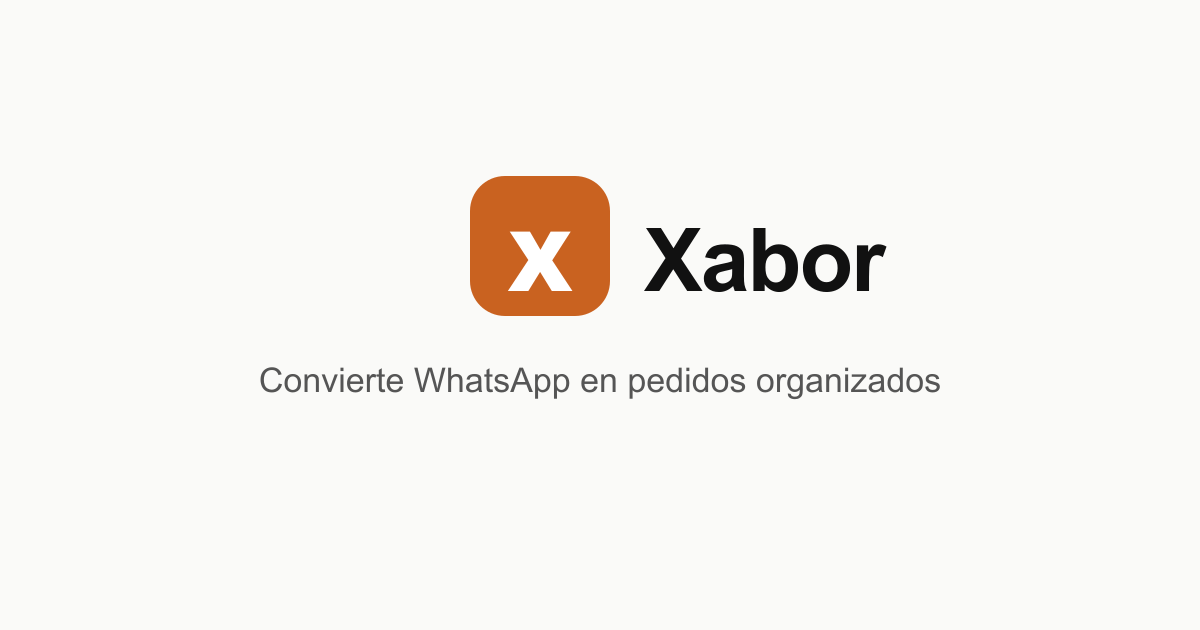
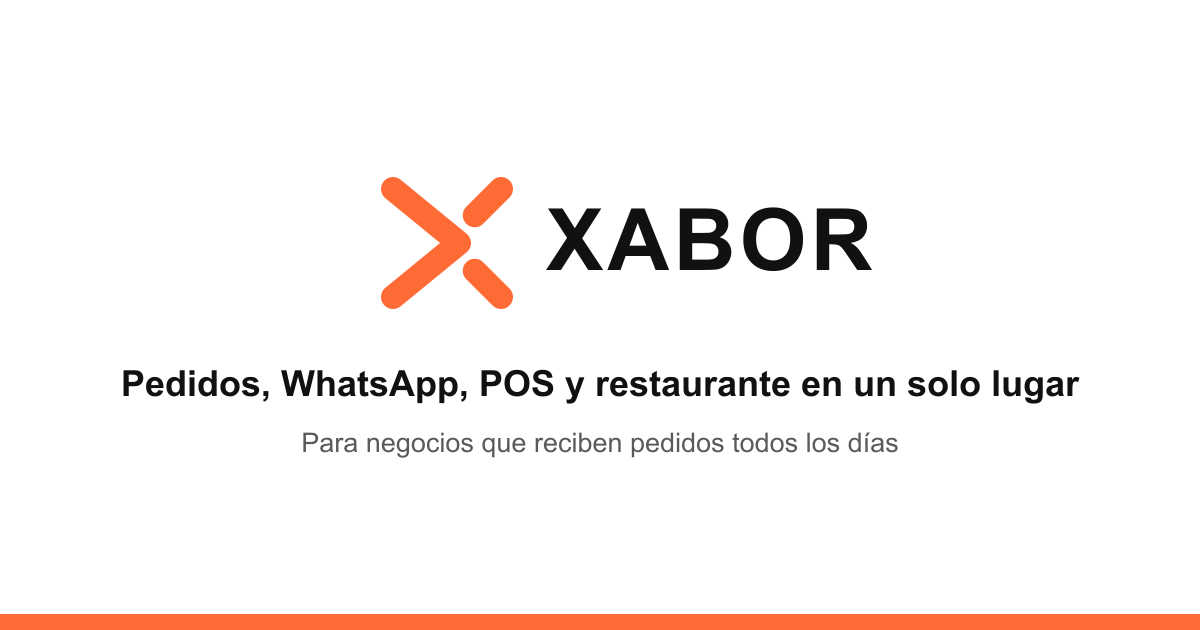
feat(marca): el isotipo real de Xabor sustituye a la reconstruccion
El logotipo que entrego el negocio es una X propia -- dos trazos que forman
un chevron y dos brazos recortados, con puntas redondeadas -- en un naranja
vivo. Lo que estaba desplegado era mi reconstruccion del favicon anterior de
la landing: un cuadrado redondeado con una X tipografica. No es la misma
marca.

Ahora public/brand/xabor-icono.svg dibuja la X real y de ahi se derivan otra
vez los PNG, el .ico y la vista previa social. El color de marca pasa a
#FF6B35, que es el del logotipo y -- de paso -- el que el panel ya usaba: el
#C96220 era la pieza que sobraba, no el panel.

El wordmark tambien se corrige: el logotipo dice XABOR en mayusculas.

Se sube el ?v= a 3 para que los navegadores suelten el icono anterior.

diff --git a/panel/finanzas.html b/panel/finanzas.html
@@ -125,17 +125,17 @@
   <!-- Marca Xabor: assets canonicos en /public/brand (fuente unica, ver
        docs/branding.md). El ?v= existe porque el favicon se cachea con
        fuerza: al cambiar la version el navegador vuelve a pedirlo. -->
-  <link rel="icon" type="image/svg+xml" href="/public/brand/xabor-icono.svg?v=2">
-  <link rel="icon" type="image/png" sizes="32x32" href="/public/brand/xabor-icono-32.png?v=2">
-  <link rel="apple-touch-icon" sizes="180x180" href="/public/brand/xabor-icono-180.png?v=2">
-  <link rel="manifest" href="/public/brand/site.webmanifest?v=2">
-  <meta name="theme-color" content="#C96220">
+  <link rel="icon" type="image/svg+xml" href="/public/brand/xabor-icono.svg?v=3">
+  <link rel="icon" type="image/png" sizes="32x32" href="/public/brand/xabor-icono-32.png?v=3">
+  <link rel="apple-touch-icon" sizes="180x180" href="/public/brand/xabor-icono-180.png?v=3">
+  <link rel="manifest" href="/public/brand/site.webmanifest?v=3">
+  <meta name="theme-color" content="#FF6B35">
 </head>
 <body>
 
 <!-- Sidebar -->
 <nav class="sidebar">
-  <div class="sidebar-logo"><img src="/public/brand/xabor-icono.svg?v=2" alt="" width="22" height="22" style="vertical-align:-5px;border-radius:6px;"> Xabor<span>Finanzas</span></div>
+  <div class="sidebar-logo"><img src="/public/brand/xabor-icono.svg?v=3" alt="" width="22" height="22" style="vertical-align:-5px;"> XABOR<span>Finanzas</span></div>
   <div class="sidebar-nav">
     <div class="nav-item active" onclick="mostrarTab('facturas')" id="nav-facturas">📄 Facturas</div>
     <div class="nav-item" onclick="mostrarTab('config')" id="nav-config">⚙ Configuración</div>

diff --git a/panel/index.html b/panel/index.html
@@ -565,17 +565,17 @@ button { border: none; border-radius: var(--radius-md); padding: 8px 12px; font-
   <!-- Marca Xabor: assets canonicos en /public/brand (fuente unica, ver
        docs/branding.md). El ?v= existe porque el favicon se cachea con
        fuerza: al cambiar la version el navegador vuelve a pedirlo. -->
-  <link rel="icon" type="image/svg+xml" href="/public/brand/xabor-icono.svg?v=2">
-  <link rel="icon" type="image/png" sizes="32x32" href="/public/brand/xabor-icono-32.png?v=2">
-  <link rel="apple-touch-icon" sizes="180x180" href="/public/brand/xabor-icono-180.png?v=2">
-  <link rel="manifest" href="/public/brand/site.webmanifest?v=2">
-  <meta name="theme-color" content="#C96220">
+  <link rel="icon" type="image/svg+xml" href="/public/brand/xabor-icono.svg?v=3">
+  <link rel="icon" type="image/png" sizes="32x32" href="/public/brand/xabor-icono-32.png?v=3">
+  <link rel="apple-touch-icon" sizes="180x180" href="/public/brand/xabor-icono-180.png?v=3">
+  <link rel="manifest" href="/public/brand/site.webmanifest?v=3">
+  <meta name="theme-color" content="#FF6B35">
 </head>
 <body>
 
 <!-- Header -->
 <header>
-  <div class="header-brand"><img src="/public/brand/xabor-icono.svg?v=2" alt="" width="22" height="22" style="vertical-align:-5px;border-radius:6px;"> Xabor<span>·</span></div>
+  <div class="header-brand"><img src="/public/brand/xabor-icono.svg?v=3" alt="" width="22" height="22" style="vertical-align:-5px;"> XABOR<span>·</span></div>
   <div id="estado-ws"><div id="dot"></div><span id="label-ws">Conectando...</span></div>
   <div class="header-sep"></div>
   <div id="contador">0 activos</div>

diff --git a/panel/repartidor.html b/panel/repartidor.html
@@ -66,16 +66,16 @@
   <!-- Marca Xabor: assets canonicos en /public/brand (fuente unica, ver
        docs/branding.md). El ?v= existe porque el favicon se cachea con
        fuerza: al cambiar la version el navegador vuelve a pedirlo. -->
-  <link rel="icon" type="image/svg+xml" href="/public/brand/xabor-icono.svg?v=2">
-  <link rel="icon" type="image/png" sizes="32x32" href="/public/brand/xabor-icono-32.png?v=2">
-  <link rel="apple-touch-icon" sizes="180x180" href="/public/brand/xabor-icono-180.png?v=2">
-  <link rel="manifest" href="/public/brand/site.webmanifest?v=2">
-  <meta name="theme-color" content="#C96220">
+  <link rel="icon" type="image/svg+xml" href="/public/brand/xabor-icono.svg?v=3">
+  <link rel="icon" type="image/png" sizes="32x32" href="/public/brand/xabor-icono-32.png?v=3">
+  <link rel="apple-touch-icon" sizes="180x180" href="/public/brand/xabor-icono-180.png?v=3">
+  <link rel="manifest" href="/public/brand/site.webmanifest?v=3">
+  <meta name="theme-color" content="#FF6B35">
 </head>
 <body>
 
 <div class="header">
-  <h1><img src="/public/brand/xabor-icono.svg?v=2" alt="" width="22" height="22" style="vertical-align:-5px;border-radius:6px;"> Repartidor</h1>
+  <h1><img src="/public/brand/xabor-icono.svg?v=3" alt="" width="22" height="22" style="vertical-align:-5px;"> Repartidor</h1>
   <span class="chip" id="chip-estado" style="margin-left:auto;">…</span>
   <button class="btn btn-gris btn-mini" onclick="refrescarTodo()" title="Actualizar">↻</button>
   <button class="btn btn-gris btn-mini" id="btn-salir" style="display:none;" onclick="cerrarSesion()">Salir</button>

diff --git a/panel/superadmin.html b/panel/superadmin.html
@@ -103,11 +103,11 @@
   <!-- Marca Xabor: assets canonicos en /public/brand (fuente unica, ver
        docs/branding.md). El ?v= existe porque el favicon se cachea con
        fuerza: al cambiar la version el navegador vuelve a pedirlo. -->
-  <link rel="icon" type="image/svg+xml" href="/public/brand/xabor-icono.svg?v=2">
-  <link rel="icon" type="image/png" sizes="32x32" href="/public/brand/xabor-icono-32.png?v=2">
-  <link rel="apple-touch-icon" sizes="180x180" href="/public/brand/xabor-icono-180.png?v=2">
-  <link rel="manifest" href="/public/brand/site.webmanifest?v=2">
-  <meta name="theme-color" content="#C96220">
+  <link rel="icon" type="image/svg+xml" href="/public/brand/xabor-icono.svg?v=3">
+  <link rel="icon" type="image/png" sizes="32x32" href="/public/brand/xabor-icono-32.png?v=3">
+  <link rel="apple-touch-icon" sizes="180x180" href="/public/brand/xabor-icono-180.png?v=3">
+  <link rel="manifest" href="/public/brand/site.webmanifest?v=3">
+  <meta name="theme-color" content="#FF6B35">
 </head>
 <body>
 
@@ -122,7 +122,7 @@
 
 <div id="app">
   <header>
-    <div class="brand"><img src="/public/brand/xabor-icono.svg?v=2" alt="" width="22" height="22" style="vertical-align:-5px;border-radius:6px;"> Xabor <span>· Superadmin</span></div>
+    <div class="brand"><img src="/public/brand/xabor-icono.svg?v=3" alt="" width="22" height="22" style="vertical-align:-5px;"> XABOR <span>· Superadmin</span></div>
     <button onclick="cerrarSesion()">Cerrar sesión</button>
   </header>
   <nav>

diff --git a/panel/mesas.html b/panel/mesas.html
@@ -162,16 +162,16 @@
   <!-- Marca Xabor: assets canonicos en /public/brand (fuente unica, ver
        docs/branding.md). El ?v= existe porque el favicon se cachea con
        fuerza: al cambiar la version el navegador vuelve a pedirlo. -->
-  <link rel="icon" type="image/svg+xml" href="/public/brand/xabor-icono.svg?v=2">
-  <link rel="icon" type="image/png" sizes="32x32" href="/public/brand/xabor-icono-32.png?v=2">
-  <link rel="apple-touch-icon" sizes="180x180" href="/public/brand/xabor-icono-180.png?v=2">
-  <link rel="manifest" href="/public/brand/site.webmanifest?v=2">
-  <meta name="theme-color" content="#C96220">
+  <link rel="icon" type="image/svg+xml" href="/public/brand/xabor-icono.svg?v=3">
+  <link rel="icon" type="image/png" sizes="32x32" href="/public/brand/xabor-icono-32.png?v=3">
+  <link rel="apple-touch-icon" sizes="180x180" href="/public/brand/xabor-icono-180.png?v=3">
+  <link rel="manifest" href="/public/brand/site.webmanifest?v=3">
+  <meta name="theme-color" content="#FF6B35">
 </head>
 <body>
 
 <header class="xb">
-  <div class="marca"><img src="/public/brand/xabor-icono.svg?v=2" alt="" width="22" height="22" style="vertical-align:-5px;border-radius:6px;"> Xabor <span>Restaurante</span></div>
+  <div class="marca"><img src="/public/brand/xabor-icono.svg?v=3" alt="" width="22" height="22" style="vertical-align:-5px;"> XABOR <span>Restaurante</span></div>
   <div class="negocio" id="negocio"></div>
   <div class="der">
     <div class="quien" id="quien"></div>

diff --git a/panel/login.html b/panel/login.html
@@ -150,16 +150,16 @@ button:disabled { background: var(--color-border-strong); color: var(--color-tex
   <!-- Marca Xabor: assets canonicos en /public/brand (fuente unica, ver
        docs/branding.md). El ?v= existe porque el favicon se cachea con
        fuerza: al cambiar la version el navegador vuelve a pedirlo. -->
-  <link rel="icon" type="image/svg+xml" href="/public/brand/xabor-icono.svg?v=2">
-  <link rel="icon" type="image/png" sizes="32x32" href="/public/brand/xabor-icono-32.png?v=2">
-  <link rel="apple-touch-icon" sizes="180x180" href="/public/brand/xabor-icono-180.png?v=2">
-  <link rel="manifest" href="/public/brand/site.webmanifest?v=2">
-  <meta name="theme-color" content="#C96220">
+  <link rel="icon" type="image/svg+xml" href="/public/brand/xabor-icono.svg?v=3">
+  <link rel="icon" type="image/png" sizes="32x32" href="/public/brand/xabor-icono-32.png?v=3">
+  <link rel="apple-touch-icon" sizes="180x180" href="/public/brand/xabor-icono-180.png?v=3">
+  <link rel="manifest" href="/public/brand/site.webmanifest?v=3">
+  <meta name="theme-color" content="#FF6B35">
 </head>
 <body>
 <div class="login-box">
   <div class="logo">
-    <h1><img src="/public/brand/xabor-icono.svg?v=2" alt="" width="32" height="32" style="vertical-align:-6px;border-radius:8px;"> Xabor</h1>
+    <h1><img src="/public/brand/xabor-icono.svg?v=3" alt="" width="32" height="32" style="vertical-align:-6px;"> XABOR</h1>
     <p>Panel de Comandas</p>
   </div>
   <label>Contraseña</label>

diff --git a/panel/login-negocio.html b/panel/login-negocio.html
@@ -124,16 +124,16 @@ button:disabled { background: var(--color-border-strong); color: var(--color-tex
   <!-- Marca Xabor: assets canonicos en /public/brand (fuente unica, ver
        docs/branding.md). El ?v= existe porque el favicon se cachea con
        fuerza: al cambiar la version el navegador vuelve a pedirlo. -->
-  <link rel="icon" type="image/svg+xml" href="/public/brand/xabor-icono.svg?v=2">
-  <link rel="icon" type="image/png" sizes="32x32" href="/public/brand/xabor-icono-32.png?v=2">
-  <link rel="apple-touch-icon" sizes="180x180" href="/public/brand/xabor-icono-180.png?v=2">
-  <link rel="manifest" href="/public/brand/site.webmanifest?v=2">
-  <meta name="theme-color" content="#C96220">
+  <link rel="icon" type="image/svg+xml" href="/public/brand/xabor-icono.svg?v=3">
+  <link rel="icon" type="image/png" sizes="32x32" href="/public/brand/xabor-icono-32.png?v=3">
+  <link rel="apple-touch-icon" sizes="180x180" href="/public/brand/xabor-icono-180.png?v=3">
+  <link rel="manifest" href="/public/brand/site.webmanifest?v=3">
+  <meta name="theme-color" content="#FF6B35">
 </head>
 <body>
 <div class="login-box">
   <div class="logo">
-    <h1><img src="/public/brand/xabor-icono.svg?v=2" alt="" width="32" height="32" style="vertical-align:-6px;border-radius:8px;"> Xabor</h1>
+    <h1><img src="/public/brand/xabor-icono.svg?v=3" alt="" width="32" height="32" style="vertical-align:-6px;"> XABOR</h1>
     <p>Iniciar sesión</p>
   </div>
 

diff --git a/panel/crear-password.html b/panel/crear-password.html
@@ -93,16 +93,16 @@ button:disabled { background: var(--color-border-strong); color: var(--color-tex
   <!-- Marca Xabor: assets canonicos en /public/brand (fuente unica, ver
        docs/branding.md). El ?v= existe porque el favicon se cachea con
        fuerza: al cambiar la version el navegador vuelve a pedirlo. -->
-  <link rel="icon" type="image/svg+xml" href="/public/brand/xabor-icono.svg?v=2">
-  <link rel="icon" type="image/png" sizes="32x32" href="/public/brand/xabor-icono-32.png?v=2">
-  <link rel="apple-touch-icon" sizes="180x180" href="/public/brand/xabor-icono-180.png?v=2">
-  <link rel="manifest" href="/public/brand/site.webmanifest?v=2">
-  <meta name="theme-color" content="#C96220">
+  <link rel="icon" type="image/svg+xml" href="/public/brand/xabor-icono.svg?v=3">
+  <link rel="icon" type="image/png" sizes="32x32" href="/public/brand/xabor-icono-32.png?v=3">
+  <link rel="apple-touch-icon" sizes="180x180" href="/public/brand/xabor-icono-180.png?v=3">
+  <link rel="manifest" href="/public/brand/site.webmanifest?v=3">
+  <meta name="theme-color" content="#FF6B35">
 </head>
 <body>
 <div class="box">
   <div class="logo">
-    <h1><img src="/public/brand/xabor-icono.svg?v=2" alt="" width="32" height="32" style="vertical-align:-6px;border-radius:8px;"> Xabor</h1>
+    <h1><img src="/public/brand/xabor-icono.svg?v=3" alt="" width="32" height="32" style="vertical-align:-6px;"> XABOR</h1>
   </div>
 
   <div id="cargando">

diff --git a/panel/restablecer-password.html b/panel/restablecer-password.html
@@ -89,16 +89,16 @@ button:disabled { background: var(--color-border-strong); color: var(--color-tex
   <!-- Marca Xabor: assets canonicos en /public/brand (fuente unica, ver
        docs/branding.md). El ?v= existe porque el favicon se cachea con
        fuerza: al cambiar la version el navegador vuelve a pedirlo. -->
-  <link rel="icon" type="image/svg+xml" href="/public/brand/xabor-icono.svg?v=2">
-  <link rel="icon" type="image/png" sizes="32x32" href="/public/brand/xabor-icono-32.png?v=2">
-  <link rel="apple-touch-icon" sizes="180x180" href="/public/brand/xabor-icono-180.png?v=2">
-  <link rel="manifest" href="/public/brand/site.webmanifest?v=2">
-  <meta name="theme-color" content="#C96220">
+  <link rel="icon" type="image/svg+xml" href="/public/brand/xabor-icono.svg?v=3">
+  <link rel="icon" type="image/png" sizes="32x32" href="/public/brand/xabor-icono-32.png?v=3">
+  <link rel="apple-touch-icon" sizes="180x180" href="/public/brand/xabor-icono-180.png?v=3">
+  <link rel="manifest" href="/public/brand/site.webmanifest?v=3">
+  <meta name="theme-color" content="#FF6B35">
 </head>
 <body>
 <div class="box">
   <div class="logo">
-    <h1><img src="/public/brand/xabor-icono.svg?v=2" alt="" width="32" height="32" style="vertical-align:-6px;border-radius:8px;"> Xabor</h1>
+    <h1><img src="/public/brand/xabor-icono.svg?v=3" alt="" width="32" height="32" style="vertical-align:-6px;"> XABOR</h1>
   </div>
 
   <div id="cargando">

diff --git a/panel/mesero.html b/panel/mesero.html
@@ -23,15 +23,15 @@
   <!-- Marca Xabor: assets canonicos en /public/brand (fuente unica, ver
        docs/branding.md). El ?v= existe porque el favicon se cachea con
        fuerza: al cambiar la version el navegador vuelve a pedirlo. -->
-  <link rel="icon" type="image/svg+xml" href="/public/brand/xabor-icono.svg?v=2">
-  <link rel="icon" type="image/png" sizes="32x32" href="/public/brand/xabor-icono-32.png?v=2">
-  <link rel="apple-touch-icon" sizes="180x180" href="/public/brand/xabor-icono-180.png?v=2">
-  <link rel="manifest" href="/public/brand/site.webmanifest?v=2">
-  <meta name="theme-color" content="#C96220">
+  <link rel="icon" type="image/svg+xml" href="/public/brand/xabor-icono.svg?v=3">
+  <link rel="icon" type="image/png" sizes="32x32" href="/public/brand/xabor-icono-32.png?v=3">
+  <link rel="apple-touch-icon" sizes="180x180" href="/public/brand/xabor-icono-180.png?v=3">
+  <link rel="manifest" href="/public/brand/site.webmanifest?v=3">
+  <meta name="theme-color" content="#FF6B35">
 </head>
 <body>
 <div class="caja">
-  <div class="marca"><img src="/public/brand/xabor-icono.svg?v=2" alt="" width="26" height="26" style="vertical-align:-6px;border-radius:7px;"> Xabor</div>
+  <div class="marca"><img src="/public/brand/xabor-icono.svg?v=3" alt="" width="26" height="26" style="vertical-align:-6px;"> XABOR</div>
   <div class="negocio" id="negocio">…</div>
   <h1>Acceso de meseros</h1>
 

diff --git a/docs/branding.md b/docs/branding.md
@@ -16,9 +16,9 @@ la pestaña se queda con el icono que tuviera guardado, y ese icono podía ser
 de cualquier despliegue anterior.
 
 Encima, la marca gráfica estaba copiada a mano en cada pantalla: cuatro
-pantallas de acceso usaban un **emoji de taco (🌮)** como logotipo y cinco
-cabeceras escribían **"XABOR"** en mayúsculas, mientras la identidad aprobada
-(la de la landing) es el **isotipo naranja con la X** y la palabra **"Xabor"**.
+pantallas de acceso usaban un **emoji de taco (🌮)** como logotipo, y ninguna
+usaba el isotipo real. La identidad correcta es la **X naranja** del logotipo
+del negocio junto a la palabra **XABOR**.
 
 ## Fuente única
 
@@ -26,7 +26,7 @@ Todo vive en **`public/brand/`** y se sirve bajo `/public/brand/`:
 
 | Archivo | Qué es |
 |---|---|
-| `xabor-icono.svg` | **isotipo**: cuadrado redondeado `#C96220` con la X blanca. La fuente de todo lo demás |
+| `xabor-icono.svg` | **isotipo**: la X de Xabor en `#FF6B35`, redibujada del logotipo original del negocio. La fuente de todo lo demás |
 | `xabor-logo.svg` | **logotipo**: isotipo + palabra "Xabor" |
 | `xabor-icono-32/180/192/512.png` | derivados para favicon PNG, apple-touch-icon y manifest |
 | `favicon.ico` | contenedor ICO con el PNG de 32 px, para lo que pide `.ico` a la fuerza |
@@ -41,18 +41,20 @@ vuelve a correr el script — no se retoca ningún PNG a mano.
 Se eliminó `public/landing/favicon.svg`: era una **segunda copia** del mismo
 isotipo y es justo lo que hace que las marcas se desincronicen.
 
-Color de marca: **`#C96220`** (el `--accent` de la landing).
+Color de marca: **`#FF6B35`** — el del logotipo que entregó el negocio, que
+resultó ser el mismo naranja que el panel ya usaba. El `#C96220` que traía la
+landing era una reconstrucción anterior y quedó retirado.
 
 ## Qué declara cada pantalla
 
 Las doce superficies llevan el mismo bloque en el `<head>`:
 
 ```html
-<link rel="icon" type="image/svg+xml" href="/public/brand/xabor-icono.svg?v=2">
-<link rel="icon" type="image/png" sizes="32x32" href="/public/brand/xabor-icono-32.png?v=2">
-<link rel="apple-touch-icon" sizes="180x180" href="/public/brand/xabor-icono-180.png?v=2">
-<link rel="manifest" href="/public/brand/site.webmanifest?v=2">
-<meta name="theme-color" content="#C96220">
+<link rel="icon" type="image/svg+xml" href="/public/brand/xabor-icono.svg?v=3">
+<link rel="icon" type="image/png" sizes="32x32" href="/public/brand/xabor-icono-32.png?v=3">
+<link rel="apple-touch-icon" sizes="180x180" href="/public/brand/xabor-icono-180.png?v=3">
+<link rel="manifest" href="/public/brand/site.webmanifest?v=3">
+<meta name="theme-color" content="#FF6B35">
 ```
 
 Y el servidor responde las tres direcciones que los navegadores piden **sin
@@ -64,7 +66,7 @@ archivos de `public/brand/`.
 
 El favicon se cachea con fuerza, así que reemplazar el archivo no basta:
 
-- Los `<link>` llevan **`?v=2`**. Al subir ese número el navegador considera
+- Los `<link>` llevan **`?v=3`**. Al subir ese número el navegador considera
   que es otra URL y vuelve a pedirla. **Es el único paso necesario** cuando la
   marca cambie en el futuro.
 - `/favicon.ico` no admite query (el navegador pide esa ruta exacta), así que
@@ -84,11 +86,10 @@ recibe el correcto. No hay que pedirle a nadie que limpie su caché.
   *(Pendiente aparte: hoy es un archivo único para todos los negocios, así que
   todos imprimen el mismo logotipo. Es un asunto de multi-tenant, no de
   marca.)*
-- **Los colores de la interfaz.** El panel usa `#FF6B35` y Restaurante
-  `#f97316` como naranja de acento, distintos del `#C96220` de la marca.
-  Unificarlos cambiaría el color de **todos** los botones del producto: es una
-  decisión de diseño, no un intercambio de assets, y se deja fuera de esta
-  microfase. Queda anotado como el siguiente paso natural de consistencia.
+- **Los colores de la interfaz.** El panel ya usaba `#FF6B35`, así que con el
+  logotipo real quedó alineado solo. Restaurante sigue con `#f97316`:
+  unificarlo cambiaría el color de sus botones y es trabajo de la fase de
+  design tokens, no de un intercambio de assets.
 - Pedidos, Restaurante, meseros, POS, pagos, folios, arranque, impresión,
   autenticación (más allá del logotipo en el marcado) y migraciones.
 
@@ -96,7 +97,7 @@ recibe el correcto. No hay que pedirle a nadie que limpie su caché.
 
 Las plantillas no traían logotipo antiguo — no traían ninguno. Se dejó el
 texto igual y solo se cambió el botón principal de negro genérico a
-**`#C96220`**, para que el correo se parezca al producto. No se incrusta el
+**`#FF6B35`**, para que el correo se parezca al producto. No se incrusta el
 isotipo como imagen: los clientes de correo bloquean imágenes remotas por
 omisión y un logotipo roto se ve peor que ninguno.
 
